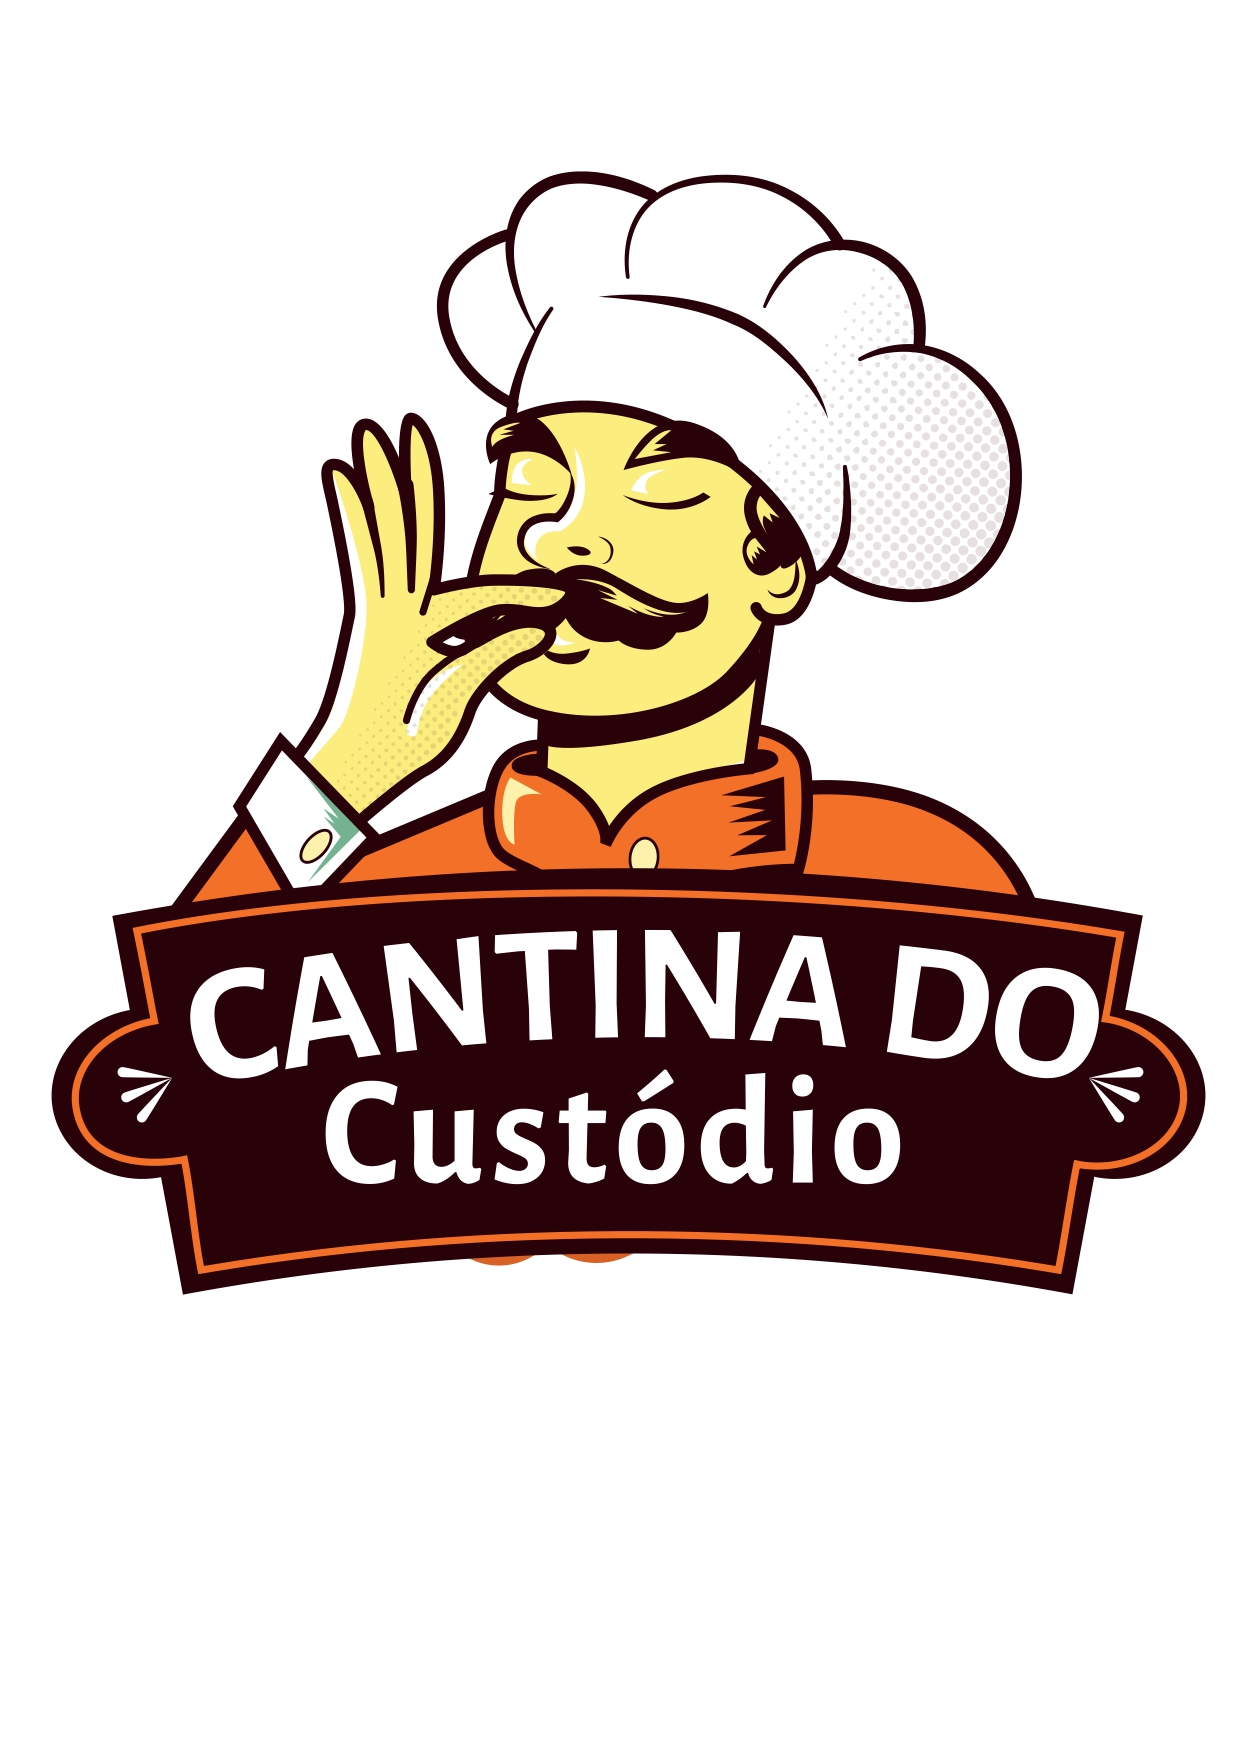
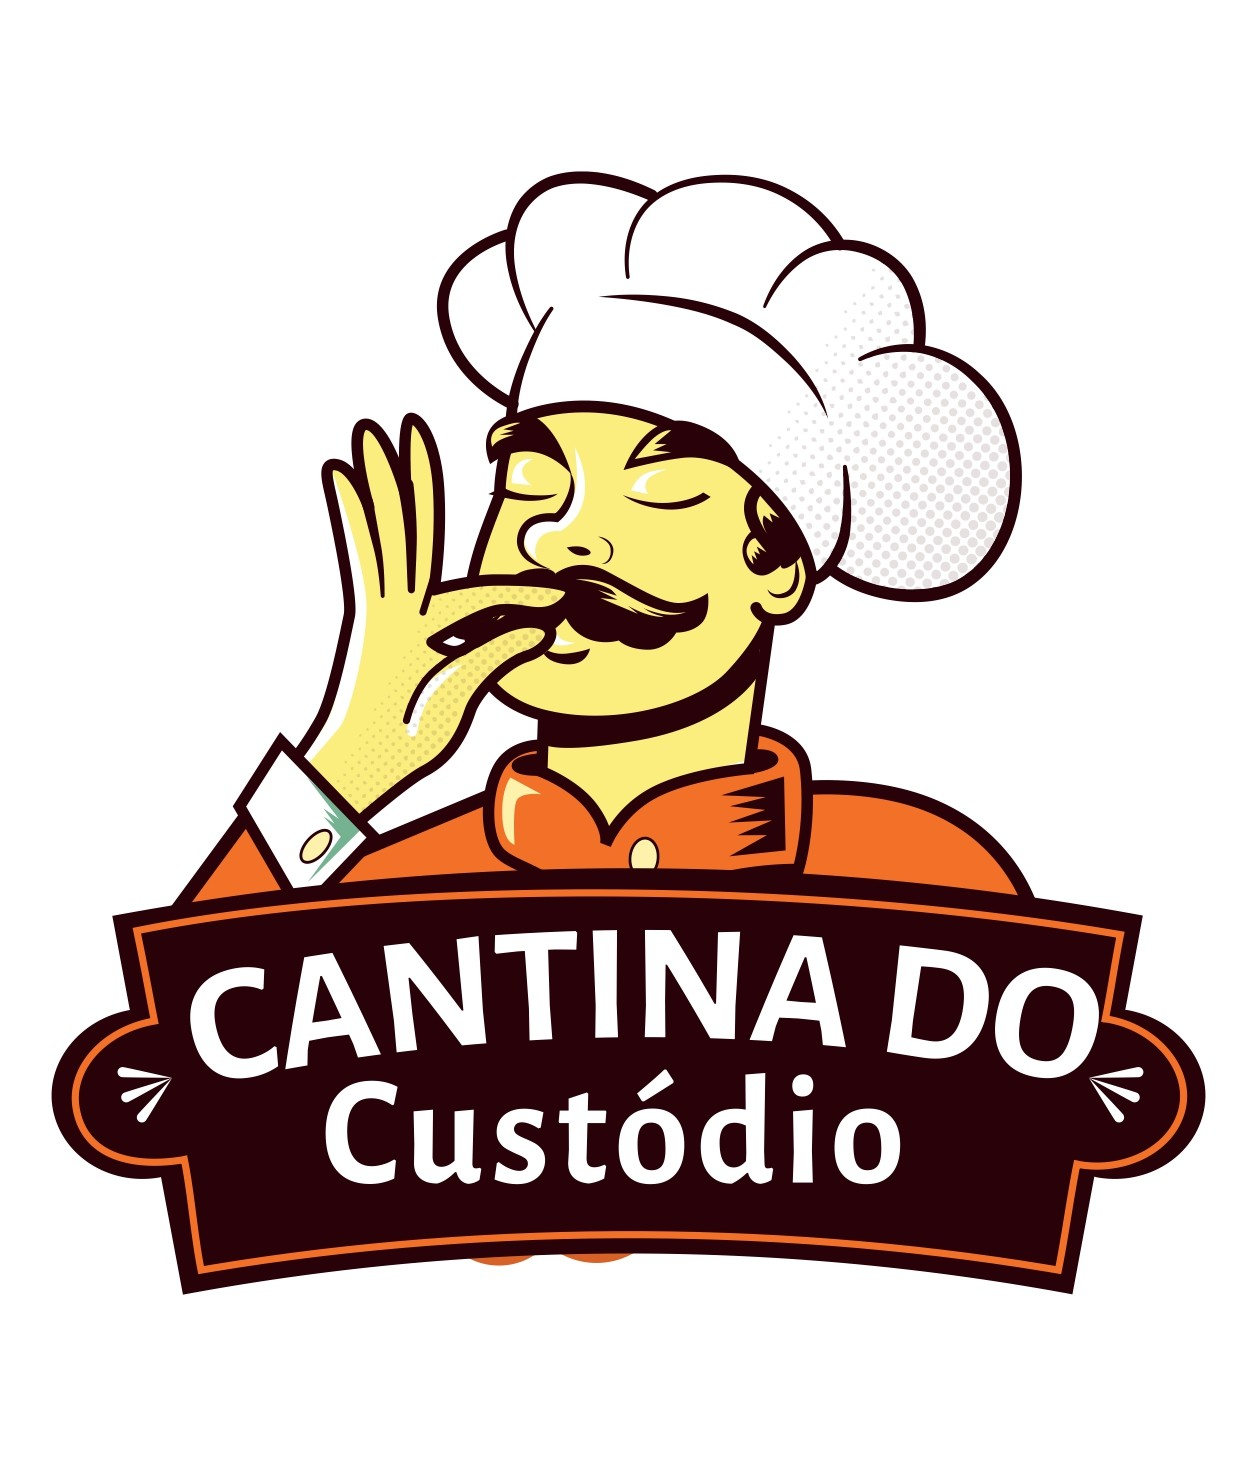
Adiciona correção na estilização dos patrocinadores

diff --git a/src/main/resources/static/css/style.css b/src/main/resources/static/css/style.css
@@ -702,27 +702,29 @@ button.btn-tema:hover
     margin-top: 1.5rem;
 }
 
-#card-patrocinio
-{
-    background-color: rgba(255, 255, 255, 0.15);;
+.card-patrocinio {
+    background-color: rgba(255, 255, 255, 0.15);
     border-radius: 8px;
     padding: 16px;
-    min-width: 120px;
-    max-width: 160px;
+    width: 160px;
+    height: 250px;          /* aumentado para caber título + imagem */
+    flex-shrink: 0;
     display: flex;
     flex-direction: column;
     align-items: center;
     justify-content: center;
     gap: 10px;
+    overflow: hidden;
+    box-sizing: border-box;
 }
 
-#card-patrocinio:hover
+.card-patrocinio:hover
 {
     border: 2px solid var(--yellow-1);
     background-color: rgba(255, 255, 255, 0.08);
 }
 
-#card-patrocinio ul
+.card-patrocinio ul
 {
     list-style: none;
     padding: 0;
@@ -730,10 +732,19 @@ button.btn-tema:hover
     width: 100%;
 }
 
-#card-patrocinio li
+.card-patrocinio li
 {
     display: flex;
     justify-content: center;
+}
+
+.card-patrocinio img 
+{
+    width: 120px !important;
+    height: 120px !important;
+    object-fit: contain;
+    display: block;
+    border-radius: 4px;
 }
 
 #patrocinadores p
@@ -743,7 +754,7 @@ button.btn-tema:hover
     max-width: 700px;
 }
 
-#titulo-patrocinio
+.titulo-patrocinio
 {
     color: var(--yellow-1);
     font-size: 1.2rem;

diff --git a/src/main/resources/templates/index.html b/src/main/resources/templates/index.html
@@ -333,8 +333,8 @@
                 a tecnologia e o desenvolvimento de profissionais preparados para o futuro digital.
             </p>
             <div id="patrocinadores-img">
-                <div id="card-patrocinio">
-                    <h3 id="titulo-patrocinio">VITORIO'S RESTAURANTE</h3>
+                <div class="card-patrocinio">
+                    <h3 class="titulo-patrocinio">VITORIO'S RESTAURANTE</h3>
                     <ul>
                         <li>
                             <a href="https://www.instagram.com/restaurantevitorios/" target="_blank">
@@ -345,8 +345,8 @@
                     </ul>
                 </div>
 
-                <div id="card-patrocinio">
-                    <h3 id="titulo-patrocinio">CACO ALIMENTAÇÃO</h3>
+                <div class="card-patrocinio">
+                    <h3 class="titulo-patrocinio">CACO ALIMENTAÇÃO</h3>
                     <ul>
                         <li>
                             <a href="https://www.instagram.com/restaurantecaco/" target="_blank">
@@ -357,8 +357,8 @@
                     </ul>
                 </div>
 
-                <div id="card-patrocinio">
-                    <h3 id="titulo-patrocinio">CATINA DO CUSTÓDIO</h3>
+                <div class="card-patrocinio">
+                    <h3 class="titulo-patrocinio">CANTINA DO CUSTÓDIO</h3>
                     <ul>
                         <li>
                             <a href="#" target="_blank">